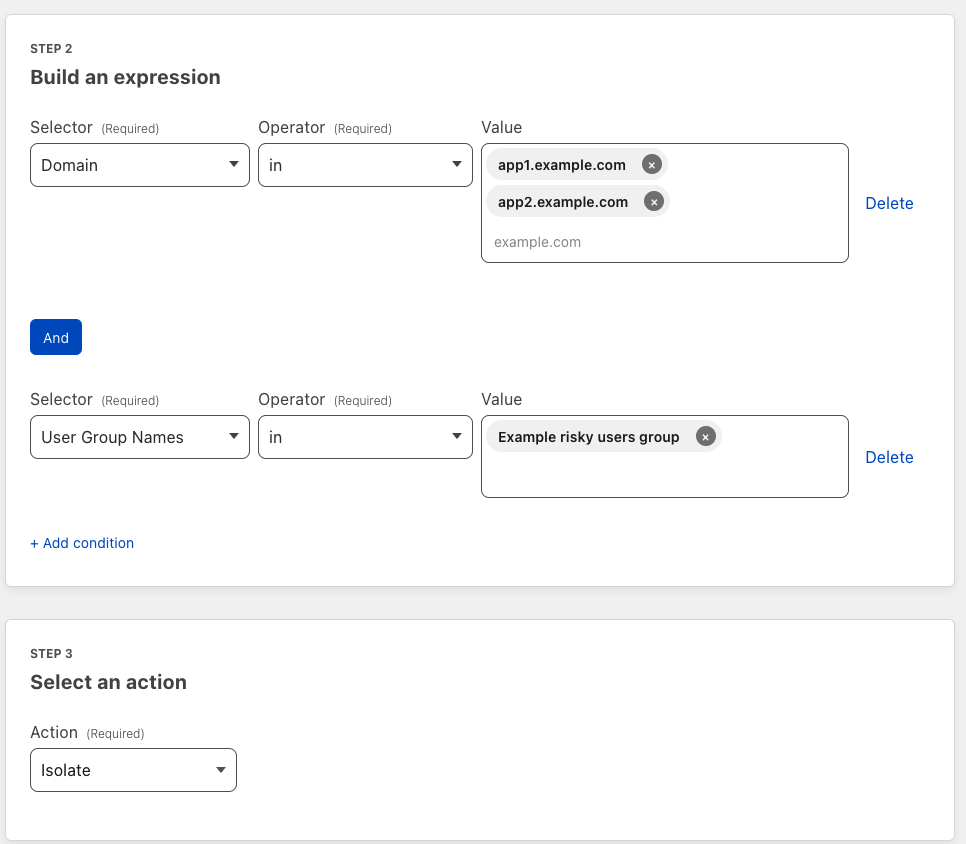
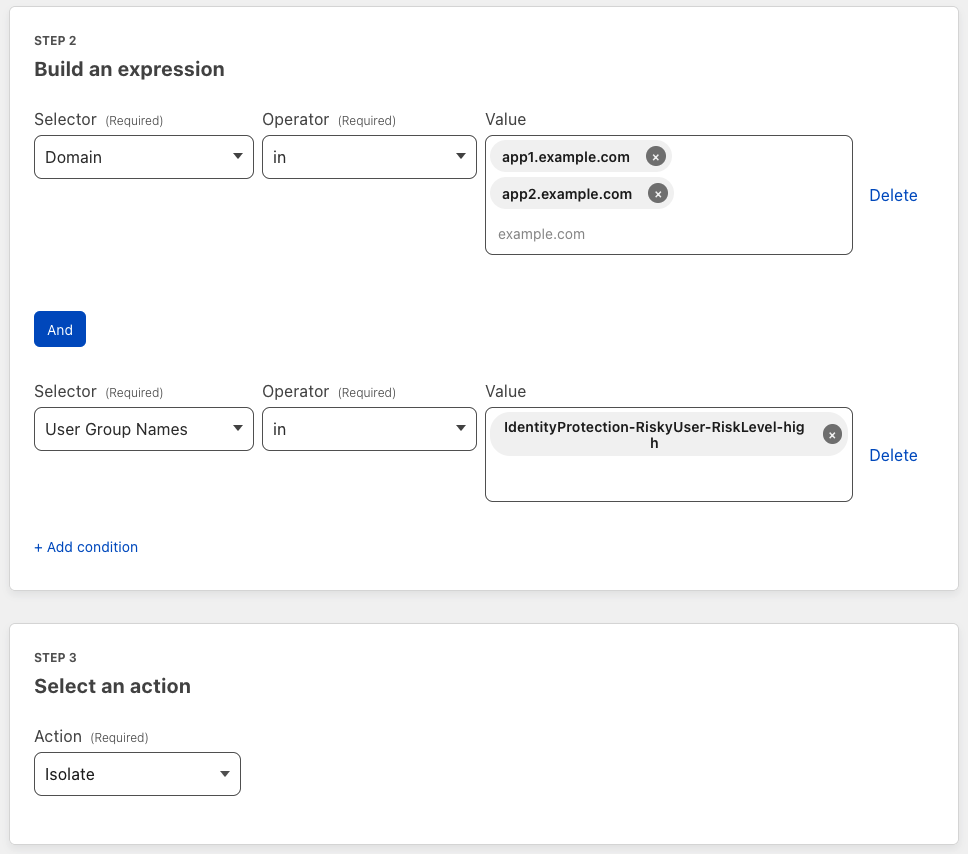
add API permissions and Worker steps

diff --git a/content/cloudflare-one/tutorials/azuread-risky-users.md b/content/cloudflare-one/tutorials/azuread-risky-users.md
@@ -8,7 +8,7 @@ title: Isolate Azure AD risky users
 
 # Isolate Azure AD risky users
 
-Azure Active Directory (AD) calculates a user's [risk level](https://learn.microsoft.com/en-us/azure/active-directory/identity-protection/howto-identity-protection-investigate-risk) based on the probability that their account has been compromised. With Cloudflare Zero Trust, you can synchronize the risky users list with Azure AD and apply more stringent policies to users at higher risk.
+Azure Active Directory (AD) calculates a user's [risk level](https://learn.microsoft.com/en-us/azure/active-directory/identity-protection/howto-identity-protection-investigate-risk) based on the probability that their account has been compromised. With Cloudflare Zero Trust, you can synchronize the Azure AD risky users list with Cloudflare Access and apply more stringent Zero Trust policies to users at higher risk.
 
 This tutorial demonstrates how to automatically redirect users to a remote browser when they are deemed risky by Azure.
 
@@ -22,93 +22,148 @@ This tutorial demonstrates how to automatically redirect users to a remote brows
 - [Cloudflare Browser Isolation](/cloudflare-one/policies/browser-isolation/) add-on
 - [Gateway HTTP filtering](/cloudflare-one/policies/filtering/initial-setup/http/) enabled on your devices
 
-## 1. Create risky users group in Azure AD
+## 1. Set up Azure AD as an identity provider
 
-1. Log in to the [Azure dashboard](https://portal.azure.com/).
-
-2. Navigate to **All services** > **Azure Active Directory**.
-
-3. In the Azure Active Directory menu, go to **Groups** and select **New group**.
-
-4. For **Group type**, choose _Security_.
-
-5. Name the group and select **Create**.
-
-    ![Creating a new security group in Azure AD](/cloudflare-one/static/documentation/identity/azure/create-risky-users-group.png)
-
-6. Copy the **Object Id** for the group, also known as the Group ID. You will need this value when calling the Microsoft Graph API.
-
-## 2. Add risky users to group
-
-Next, configure a [Cloudflare Workers](https://developers.cloudflare.com/workers/) script or [Azure Function](https://learn.microsoft.com/en-us/azure/azure-functions/functions-overview) that automatically populates the security group with risky users.
-
-### Example algorithm
-
-The basic algorithm is described below. You can test out the API using [Microsoft Graph Explorer](https://developer.microsoft.com/en-us/graph/graph-explorer).
-
-1. Get the current members of the security group.
-    ```js
-    GET https://graph.microsoft.com/v1.0/groups/<GROUP ID>/members?$count=true
-    ```
-
-2. Delete all members of the security group. This saves you from having to manually remove users that are no longer risky.
-    ```js
-    DELETE https://graph.microsoft.com/v1.0/groups/<GROUP ID>/members/<MEMBER ID>/$ref
-    ```
-
-3. Get the list of Azure AD risky users. You can optionally filter the results by risk level (`low`, `medium`, or `high`).
-    ```js
-    GET https://graph.microsoft.com/v1.0/identityProtection/riskyUsers?$filter=riskLevel eq 'high'
-    ```
-
-4. Add risky users to the security group.
-    ```js
-    POST https://graph.microsoft.com/v1.0/groups/<GROUP ID>/members/$ref
-    ```
-    Request body:
-    ```js
-    {
-        "@odata.id": "https://graph.microsoft.com/v1.0/directoryObjects/<MEMBER ID>"
-    }
-    ```
-
-### Example Cloudflare Workers script
-
-```js
----------FILL IN------------------
-```
-
-## 3. Add Azure AD as an identity provider
-
-[Set up Azure AD as an identity provider](/cloudflare-one/identity/idp-integration/azuread/#set-up-azure-ad-as-an-identity-provider) in Cloudflare Access.
-
-## 4. Enable group synchronization
-
-To synchronize Azure AD users and groups with Cloudflare Access, refer to our [SCIM integration instructions](/cloudflare-one/identity/idp-integration/azuread/#synchronize-users-and-groups).
+Refer to [our IdP setup instructions](/cloudflare-one/identity/idp-integration/azuread/#set-up-azure-ad-as-an-identity-provider) for Azure AD.
 
 {{<Aside type="note">}}
-- When you configure the IdP in the Zero Trust dashboard, be sure to select **Enable group membership change reauthentication**. 
-- In Azure AD, be sure to add your risky users security group to the SCIM enterprise application.
-
+- When you configure the IdP in the Zero Trust dashboard, be sure to select **Enable group membership change reauthentication**.
+- Save the **Application (client) ID**, **Directory (tenant) ID**, and **Client secret** as you will need them again in a later step.
 {{</Aside>}}
+
+## 2. Add Azure AD API permissions
+
+Once the base IdP integration is tested and working, enable additional permissions that will allow a script to create and update risky user groups in Azure AD:
+
+1. In Azure Active Directory, go to **App registrations**.
+
+2. Select the application you created for the IdP integration.
+
+3. Navigate to **API permissions** and select **Add a permission**.
+
+4. Select **Microsoft Graph**.
+
+5. Select **Application permissions** and add the following [permissions](https://learn.microsoft.com/en-us/graph/permissions-reference):
+
+    - `IdentityRiskyUser.ReadAll`
+    - `Directory.ReadWriteAll`
+    - `Group.Create`
+    - `Group.ReadAll`
+    - `GroupMember.ReadAll`
+    - `GroupMember.ReadWriteAll`
+
+6. Select **Grant admin consent**.
+
+You will see the list of enabled permissions.
+
+![API permissions in Azure AD](/cloudflare-one/static/documentation/identity/azure/risky-users-permissions.png)
+
+## 3. Add risky users to Azure AD group
+
+Next, configure an automated script that will populate an Azure AD security group with risky users.
+
+To get started quickly, deploy our example Cloudflare Workers script by following the step-by-step instructions below. Alternatively, you can adapt our example for another tool such as [Azure Functions](https://learn.microsoft.com/en-us/azure/azure-functions/functions-overview).
+
+1. Open a terminal and clone our example project.
+
+    ```sh
+    $ wrangler generate risky-users https://github.com/cloudflare/<repo-name>
+    ```
+
+2. Navigate to the project directory.
+
+    ```sh
+    cd risky-users
+    ```
+
+3. Modify `wrangler.toml` to include the following values:
+    - `<ACCOUNT_ID>`: your Cloudflare account ID, shown in the [Cloudflare dashboard](https://dash.cloudflare.com/) in the **Workers** tab.
+    - `<TENANT_ID>`: your Azure AD **Directory (tenant) ID**, obtained when [setting up Azure AD as an identity provider](#1-set-up-azure-ad-as-an-identity-provider).
+    - `<CLIENT_ID>`: your **Application (client) ID**, obtained when [setting up Azure AD as an identity provider](#1-set-up-azure-ad-as-an-identity-provider).
+
+    ```txt
+    ---
+    filename: wrangler.toml
+    ---
+    name = "risky-users"
+    type = "javascript"
+
+    account_id = "<ACCOUNT_ID>"
+    workers_dev = false
+    route = ""
+    zone_id = ""
+    compatibility_date = "2022-05-16"
+
+    [vars]
+    AZURE_AD_TENANT_ID="<TENANT-ID>"
+    AZURE_AD_CLIENT_ID="<CLIENT-ID>"
+
+    [triggers]
+    crons = ["* * * * *"]
+    ```
+
+{{<Aside type="note">}}
+The [Cron Trigger](/workers/platform/triggers/cron-triggers/) in this example schedules the script to run every minute. [Learn more](/workers/platform/triggers/cron-triggers/#supported-cron-expressions) about supported cron expressions.
+{{</Aside>}}
+
+4. Publish the Worker to your Workers account.
+
+    ```sh
+    $ wrangler publish
+    ```
+
+5. Create a secret variable named `AZURE_AD_CLIENT_SECRET`.
+
+    ```sh
+    $ wrangler secret put AZURE_AD_CLIENT_SECRET
+    ```
+
+    You will be prompted to input the secret’s value. Enter the **Client secret** obtained when [setting up AzureAD as an identity provider](#1-set-up-azure-ad-as-an-identity-provider).
+
+The Worker script will begin executing once per minute. To view realtime logs, run the following command and wait for the script to execute:
+```sh
+$ wrangler tail -f pretty
+```
+
+After the initial run, the auto-generated groups will appear in the Azure AD dashboard.
+
+![Risky user groups in the Azure AD dashboard](/cloudflare-one/static/documentation/identity/azure/risky-users-groups.png)
+
+
+## 4. Synchronize risky user groups
+
+Next, synchronize Azure AD risky user groups with Cloudflare Access:
+
+1. [Enable SCIM synchronization](/cloudflare-one/identity/idp-integration/azuread/#synchronize-users-and-groups).
+
+2. In Azure AD, assign the following groups to your SCIM enterprise application:
+    - `IdentityProtection-RiskyUser-RiskLevel-high`
+    - `IdentityProtection-RiskyUser-RiskLevel-medium`
+    - `IdentityProtection-RiskyUser-RiskLevel-low`
+
+Cloudflare Access will now synchronize changes in group membership with Azure AD. You can verify the synchronization status on the SCIM application's **Provisioning** page.
 
 ## 5. Create a browser isolation policy
 
-Once the SCIM integration is complete, the risky users group will appear in the Gateway [HTTP policy builder](/cloudflare-one/policies/filtering/http-policies/) when you choose the _User Group Names_ selector.
+Finally, create a [Gateway HTTP policy](/cloudflare-one/policies/filtering/http-policies/) to isolate traffic for risky user groups.
 
-For example, you can create the following [isolation policy](/cloudflare-one/policies/browser-isolation/isolation-policies/):
+1. In the [Zero Trust dashboard](https://dash.teams.cloudflare.com), go to **Gateway** > **Policies** > **HTTP**.
 
-| Selector | Operator | Value |
-| - | - | - |
-| Domain | In | `app1.example.com`, `app2.example.com` |
-| User Group Names | in | `Example risky users group` |
+2. Select **Create a policy**.
 
-|Action|
-|------ |
-| Isolate |
+3. Build an [Isolate policy](/cloudflare-one/policies/browser-isolation/isolation-policies/) that contains a _User Group Names_ rule. For example, the following policy serves `app1.example.com` and `app2.example.com` in a remote browser for all members flagged as high risk:
 
-![HTTP policy shown in the Zero Trust dashboard](/cloudflare-one/static/documentation/identity/azure/risky-users-policy.png)
+    |Policy name|
+    |----|
+    | Isolate risky users|
 
-All members of `Example risky users group` in Azure AD will be isolated when they visit `app1.example.com` and `app2.example.com`. Cloudflare Access will automatically synchronize changes in group membership with Azure AD.
+    | Selector | Operator | Value |
+    | - | - | - |
+    | Domain | In | `app1.example.com`, `app2.example.com` |
+    | User Group Names | in | `IdentityProtection-RiskyUser-RiskLevel-high` |
+
+    |Action|
+    |------ |
+    | Isolate |
 
 To test the policy, refer to the Microsoft documentation for [simulating risky detections](https://learn.microsoft.com/en-us/azure/active-directory/identity-protection/howto-identity-protection-simulate-risk).
